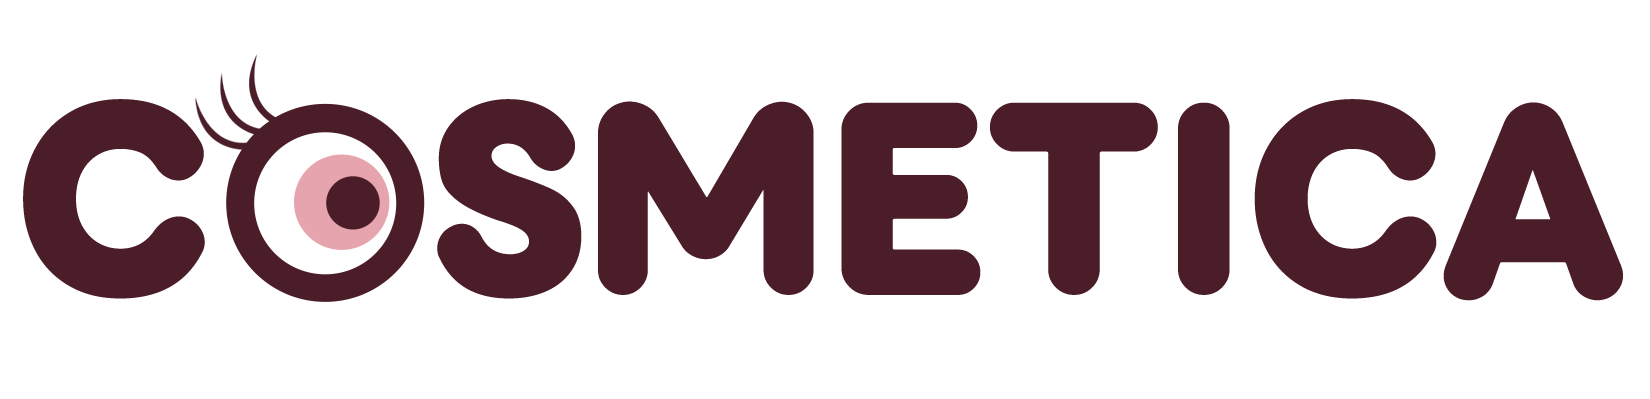
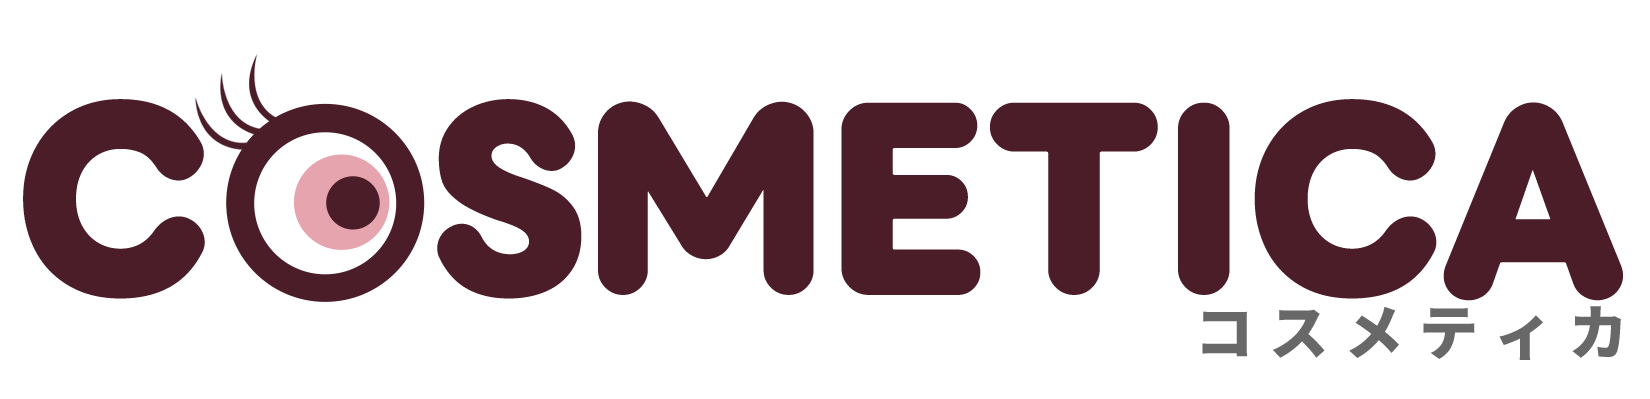
fix

Changed region(s): [[0.7109, 0.7519, 0.9891, 0.9023]]

diff --git a/resources/css/cosmetica.css b/resources/css/cosmetica.css
@@ -141,7 +141,14 @@ button:focus-visible {
   align-items: center;
   justify-content: space-between;
   gap: 24px;
-  padding: 14px 0;
+  padding: 8px 0;
+}
+
+.c-header__brand {
+  display: flex;
+  flex-direction: column;
+  gap: 1px;
+  justify-content: center;
 }
 
 .c-header__logo {
@@ -151,6 +158,15 @@ button:focus-visible {
   max-width: 200px;
   object-fit: contain;
   object-position: left center;
+}
+
+.c-header__catchphrase {
+  margin: 0;
+  font-size: 10px;
+  line-height: 1.2;
+  font-weight: 400;
+  color: var(--text-muted);
+  letter-spacing: 0.02em;
 }
 
 .c-header__search {

diff --git a/resources/views/cosmetica/layout.blade.php b/resources/views/cosmetica/layout.blade.php
@@ -14,16 +14,19 @@
     <header class="c-header">
         <div class="c-container">
             <div class="c-header__inner">
-                <a href="{{ url('/') }}" aria-label="COSMETICA トップへ">
-                    <img
-                        src="{{ asset('assets/title.png') }}"
-                        alt="COSMETICA"
-                        class="c-header__logo"
-                        width=""
-                        height="40"
-                        decoding="async"
-                    />
-                </a>
+                <div class="c-header__brand">
+                    <a href="{{ url('/') }}" aria-label="COSMETICA トップへ">
+                        <img
+                            src="{{ asset('assets/title.png') }}"
+                            alt="COSMETICA"
+                            class="c-header__logo"
+                            width=""
+                            height="40"
+                            decoding="async"
+                        />
+                    </a>
+                    <p class="c-header__catchphrase">コスメ・美容のトレンドが、ここに。</p>
+                </div>
                 <div class="c-header__search">
                     <form action="{{ url('/') }}" method="get" role="search">
                         <label for="header-search" class="visually-hidden">キーワードで検索</label>
